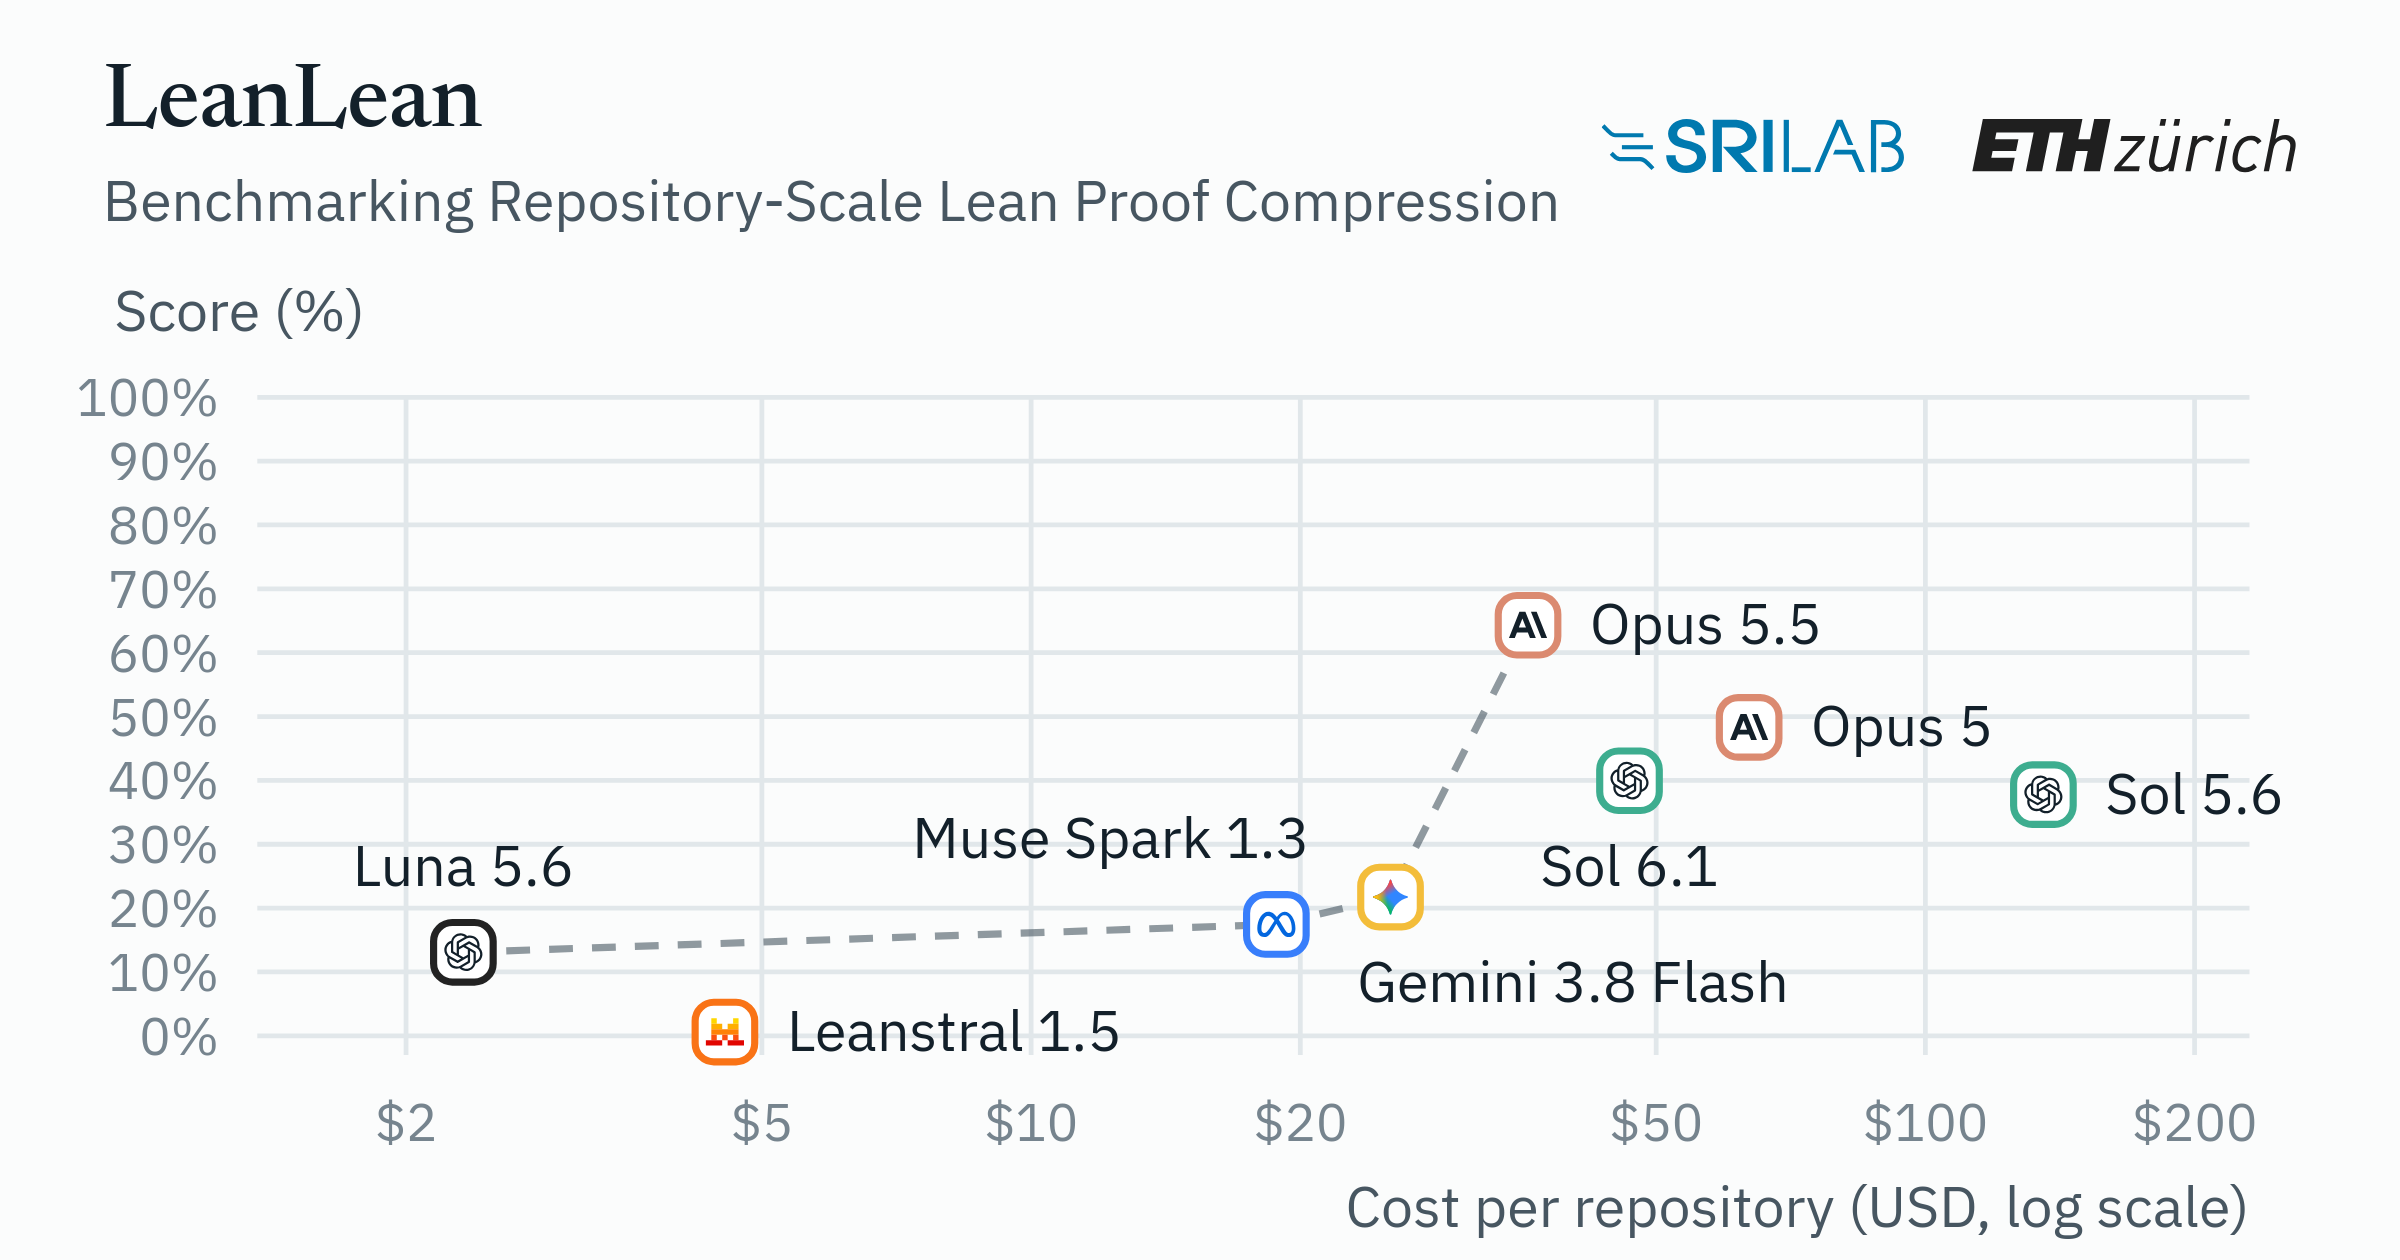
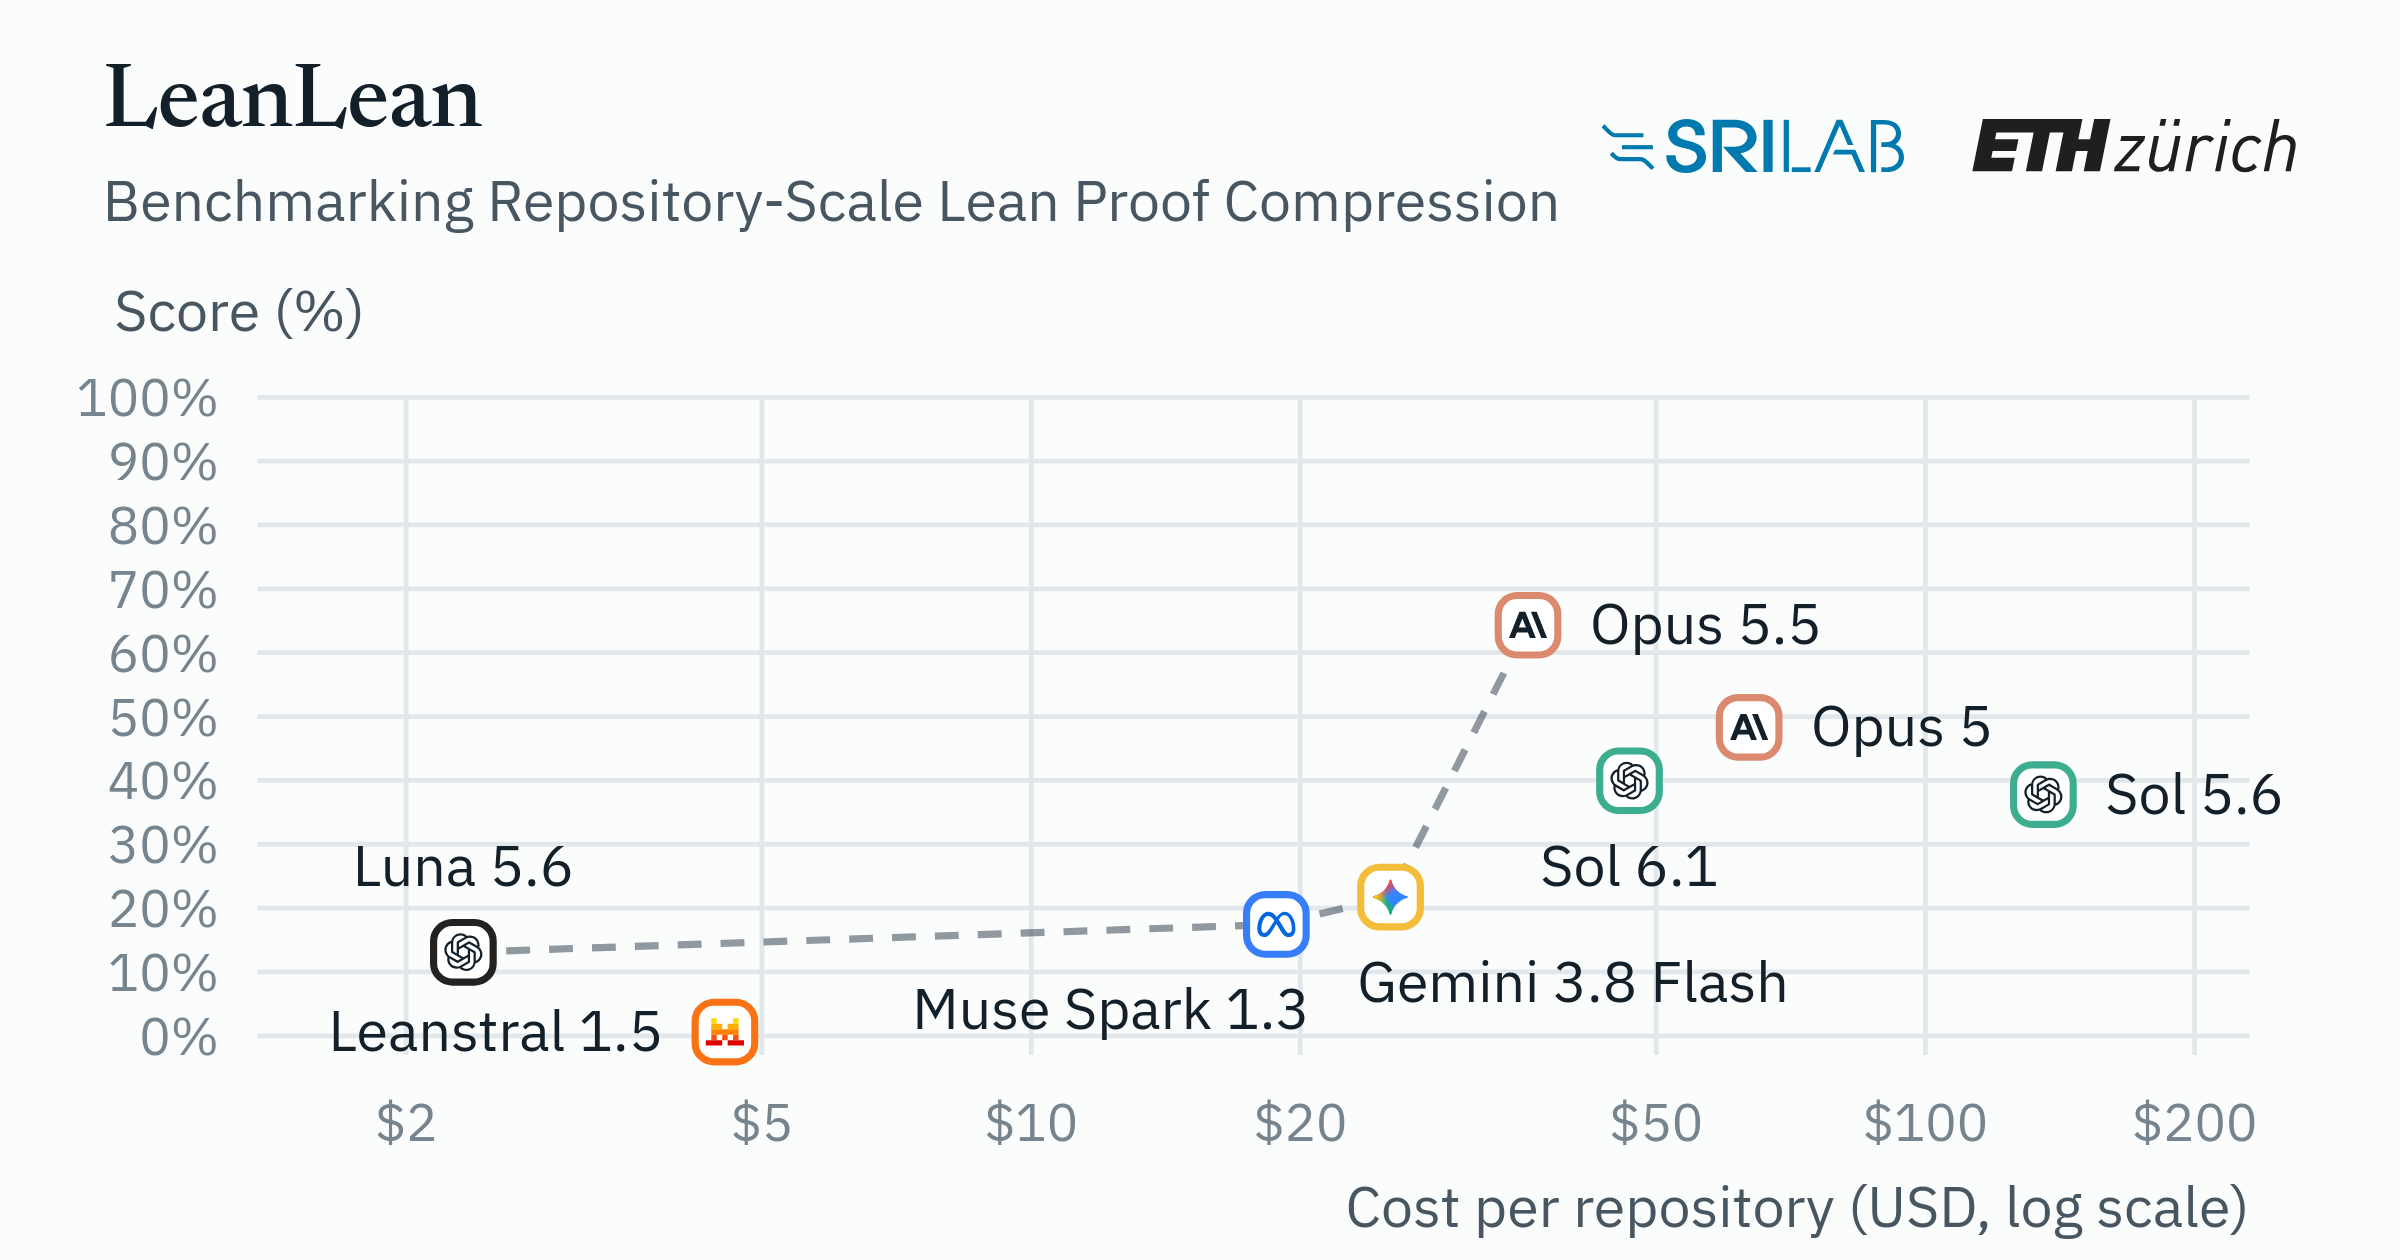
frontier: 16px names on desktop, labels prefer below over above; score note under the leaderboard tabs on a phone

Changed region(s): [[0.3125, 0.7738, 0.5312, 0.8357], [0.375, 0.65, 0.5625, 0.681], [0.125, 0.8048, 0.2812, 0.8357]]

diff --git a/site/assets/js/leaderboard.js b/site/assets/js/leaderboard.js
@@ -1,4 +1,4 @@
-import { h, s, logo, logoMarkup, modelColor, cssVar, pct, usd, hours, tokens, ramp, inkOn, esc, showTip, hideTip, AUTHORS, PAPER_URL, CODE_URL, DATASET_URL, CITATION, CONTACT_EMAIL, ORIGIN } from './util.js?v=e98656abd3';
+import { h, s, logo, logoMarkup, modelColor, cssVar, pct, usd, hours, tokens, ramp, inkOn, esc, showTip, hideTip, AUTHORS, PAPER_URL, CODE_URL, DATASET_URL, CITATION, CONTACT_EMAIL, ORIGIN } from './util.js?v=c650db202f';
 
 function sectionHead(eyebrow, title, text) {
   return h('div', { class: 'section-head' },
@@ -110,6 +110,8 @@ function frontierChart(models) {
     const zoom = +host.dataset.zoom || 1;
     const W = Math.round(drawn / zoom);
     const narrow = W < 560;
+    // A wide chart (a desktop) sets its labels a size up; see .chart.frontier .large in site.css.
+    const large = W >= 760, fs = large ? 16 : 12;
     const H = +host.dataset.height || (narrow ? 300 : W < 900 ? 360 : 400);
     const L = narrow ? 36 : 44, R = W - (narrow ? 10 : 18), T = 30, B = H - 42;
     const S = +host.dataset.mark || (narrow ? 16 : 18), icon = Math.round(S * 0.58);
@@ -121,7 +123,7 @@ function frontierChart(models) {
     const top = 100, floor = -3;
     const y = (v) => B - ((v - floor) / (top - floor)) * (B - T);
 
-    const svg = s('svg', { viewBox: `0 0 ${W} ${H}`, width: W, height: H, role: 'img',
+    const svg = s('svg', { class: large ? 'large' : null, viewBox: `0 0 ${W} ${H}`, width: W, height: H, role: 'img',
       'aria-label': `Score against cost per repository. ${pts.map((m) => `${m.label}: ${pct(m.score)} at ${usd(m.cost)}`).join('; ')}.` });
     const grid = s('g', { class: 'grid' });
     for (let t = 0; t <= top; t += 10) {
@@ -143,11 +145,11 @@ function frontierChart(models) {
       s('text', { class: 'axis-title', x: R, y: H - 6, 'text-anchor': 'end' }, 'Cost per repository (USD, log scale)'),
       s('polyline', { class: 'frontier-line', points: frontier.map((m) => `${x(m.cost)},${y(m.score)}`).join(' ') }));
 
-    // Direct labels: beside each logo where there is room (right, left, above,
-    // below, then above or below flush with either edge), placed from the top
+    // Direct labels: beside each logo where there is room (right, left, below,
+    // above, then below or above flush with either edge), placed from the top
     // score down so leaders get first pick, backtracking when a later label
     // would find no free spot.
-    measure.font = `400 12px ${cssVar('--font-ui')}`;
+    measure.font = `400 ${fs}px ${cssVar('--font-ui')}`;
     const boxes = pts.map((m) => ({ x: x(m.cost) - S / 2 - 2, y: y(m.score) - S / 2 - 2, w: S + 4, h: S + 4 }));
     const hits = (a, b) => a.x < b.x + b.w && b.x < a.x + a.w && a.y < b.y + b.h && b.y < a.y + a.h;
     // The frontier line, as small squares every few pixels, so labels keep clear of it too.
@@ -160,14 +162,14 @@ function frontierChart(models) {
     const order = [...pts].sort((a, b) => b.score - a.score);
     const options = order.map((m) => {
       const cx = x(m.cost), cy = y(m.score), r = S / 2 + 6, e = S / 2;
-      const w = measure.measureText(m.label).width, lh = 14;
-      const above = { y: cy - r - lh + 2, ty: cy - r - 1 }, below = { y: cy + r - 2, ty: cy + r + 9 };
+      const w = measure.measureText(m.label).width, lh = fs + 2, mid = cy + fs / 3;
+      const above = { y: cy - r - lh + 2, ty: cy - r - 1 }, below = { y: cy + r - 2, ty: cy + r + fs - 3 };
       return [
-        { x: cx + r, y: cy - lh / 2, anchor: 'start', tx: cx + r, ty: cy + 4 },
-        { x: cx - r - w, y: cy - lh / 2, anchor: 'end', tx: cx - r, ty: cy + 4 },
-        { ...above, x: cx - w / 2, anchor: 'middle', tx: cx },
+        { x: cx + r, y: cy - lh / 2, anchor: 'start', tx: cx + r, ty: mid },
+        { x: cx - r - w, y: cy - lh / 2, anchor: 'end', tx: cx - r, ty: mid },
         { ...below, x: cx - w / 2, anchor: 'middle', tx: cx },
-        ...[above, below].flatMap((v) => [
+        { ...above, x: cx - w / 2, anchor: 'middle', tx: cx },
+        ...[below, above].flatMap((v) => [
           { ...v, x: cx - e, anchor: 'start', tx: cx - e },
           { ...v, x: cx + e - w, anchor: 'end', tx: cx + e },
         ]),
@@ -266,12 +268,14 @@ export function renderLeaderboard(view, bench) {
   // opening on the frontier, with the leaderboard's summary and per-repository
   // columns as separate tabs (see site.css).
   const board = boardTable(bench);
+  // How a score is counted: under the frontier, and on a phone, where the panels
+  // are tabs, under the leaderboard's two tabs as well.
+  const scoreNote = 'Score is mean Lean token compression across repositories. A failed build or Comparator check scores zero.';
   const panels = {
     board: h('div', { class: 'result-panel board-panel', id: 'results-board', role: 'tabpanel' },
-      h('h2', {}, 'Leaderboard'), board),
+      h('div', { class: 'panel-head' }, h('h2', {}, 'Leaderboard'), h('p', { class: 'tab-note' }, scoreNote)), board),
     frontier: h('div', { class: 'result-panel frontier-panel', id: 'results-frontier', role: 'tabpanel' },
-      h('div', { class: 'panel-head' }, h('h2', {}, 'Frontier'),
-        h('p', {}, 'Score is mean Lean token compression across repositories. A failed build or Comparator check scores zero.')),
+      h('div', { class: 'panel-head' }, h('h2', {}, 'Frontier'), h('p', {}, scoreNote)),
       frontierChart(models)),
   };
   const body = h('div', { class: 'results-body', 'data-tab': 'frontier' }, panels.frontier, panels.board);

diff --git a/site/index.html b/site/index.html
@@ -26,10 +26,10 @@
 <link rel="preconnect" href="https://fonts.googleapis.com">
 <link rel="preconnect" href="https://fonts.gstatic.com" crossorigin>
 <link rel="stylesheet" href="https://fonts.googleapis.com/css2?family=Newsreader:opsz,wght@6..72,400;6..72,500;6..72,600&family=IBM+Plex+Sans:wght@400;500;600&family=IBM+Plex+Mono:wght@400;500&display=swap">
-<link rel="stylesheet" href="assets/css/site.css?v=e98656abd3">
-<link rel="modulepreload" href="assets/js/main.js?v=e98656abd3">
-<link rel="modulepreload" href="assets/js/util.js?v=e98656abd3">
-<link rel="modulepreload" href="assets/js/leaderboard.js?v=e98656abd3">
+<link rel="stylesheet" href="assets/css/site.css?v=c650db202f">
+<link rel="modulepreload" href="assets/js/main.js?v=c650db202f">
+<link rel="modulepreload" href="assets/js/util.js?v=c650db202f">
+<link rel="modulepreload" href="assets/js/leaderboard.js?v=c650db202f">
 <link rel="preload" href="data/leaderboard.json" as="fetch" crossorigin="anonymous">
 <link rel="icon" href="assets/favicon.svg" type="image/svg+xml">
 <link rel="icon" href="assets/favicon-32.png" type="image/png" sizes="32x32">
@@ -38,7 +38,7 @@
 <body>
 <main id="view" tabindex="-1"><div class="loading">Loading benchmark…</div></main>
 <div class="tooltip" id="tooltip" role="tooltip" hidden></div>
-<script type="module" src="assets/js/main.js?v=e98656abd3"></script>
+<script type="module" src="assets/js/main.js?v=c650db202f"></script>
 <script>window.goatcounter = { path: (p) => p + location.hash };</script>
 <script data-goatcounter="https://leanleanbench.goatcounter.com/count"
         async src="//gc.zgo.at/count.js"></script>

diff --git a/site/assets/js/main.js b/site/assets/js/main.js
@@ -9,8 +9,8 @@
 //   #/model/<model>             a model's run configuration, over whatever is open
 // <model> is an agent's short key, or `prep` for the repository before and after preprocessing.
 // Every address is a link that can be shared: the viewer keeps it in step with what is open.
-import { h, load, registerLogos } from './util.js?v=e98656abd3';
-import { renderLeaderboard, renderMethod, renderCitation } from './leaderboard.js?v=e98656abd3';
+import { h, load, registerLogos } from './util.js?v=c650db202f';
+import { renderLeaderboard, renderMethod, renderCitation } from './leaderboard.js?v=c650db202f';
 // The repository viewer (diff, graph, charts) and the full benchmark data load
 // only when a repository is opened; the leaderboard needs one small file.
 
@@ -27,8 +27,8 @@ let panel = null;     // full-width host for the repository viewer
 let cleanup = null;   // tears down the current repository viewer
 let shownRepo = null;
 let openedFrom = null; // the address before a model's configuration was opened
-const loadRepoPage = () => import('./repo.js?v=e98656abd3');
-const loadConfig = () => import('./config.js?v=e98656abd3');
+const loadRepoPage = () => import('./repo.js?v=c650db202f');
+const loadConfig = () => import('./config.js?v=c650db202f');
 // Colours the scripts compute (heatmap ramp, graph, origin bars) are read from
 // site.css's custom properties. Not every browser holds module scripts until the
 // stylesheet has applied, and on a cold load an empty property turns the whole

diff --git a/site/assets/css/site.css b/site/assets/css/site.css
@@ -714,7 +714,7 @@ ul.tree .state.added { border-color: var(--g-added); background: color-mix(in sr
 }
 .results-tabs button:hover { color: var(--ink); }
 .results-tabs button[aria-selected="true"] { color: var(--ink); border-bottom-color: var(--ink); }
-@media (min-width: 760px) { .results-tabs { display: none; } }
+@media (min-width: 760px) { .results-tabs, .tab-note { display: none; } }
 @media (max-width: 759.98px) {
   .result-panel h2,
   .results-body[data-tab="frontier"] .board-panel,
@@ -724,6 +724,9 @@ ul.tree .state.added { border-color: var(--g-added); background: color-mix(in sr
 .chart.frontier .pt rect { fill: var(--surface); stroke-width: 1.5; }
 .chart.frontier .pt { color: var(--ink); }
 .chart.frontier .label, .chart.frontier .axis-title { font-weight: 400; }
+.chart.frontier .large text { font-size: 13px; }
+.chart.frontier .large .axis-title { font-size: 14px; }
+.chart.frontier .large .label { font-size: 16px; }
 .chart.frontier .pt:hover rect { stroke-width: 2.5; }
 .chart.frontier .frontier-line { fill: none; stroke: var(--ink-2); stroke-width: 1.5; stroke-dasharray: 5 4; stroke-linejoin: round; opacity: 0.6; }
 

diff --git a/site/assets/js/repo.js b/site/assets/js/repo.js
@@ -1,7 +1,7 @@
-import { h, load, loadChunk, logo, modelColor, pct, usd, hours, tokens, int, signedInt, signedPct, seg, esc, showTip, hideTip, cssVar, ramp, ORIGIN } from './util.js?v=e98656abd3';
-import { GraphView, STATUS, shapeOf, radius } from './graph.js?v=e98656abd3';
-import { codeBlock, diffBlock, splitBlock, hunksBlock, wholeFileBlock } from './code.js?v=e98656abd3';
-import { TraceView } from './trace.js?v=e98656abd3';
+import { h, load, loadChunk, logo, modelColor, pct, usd, hours, tokens, int, signedInt, signedPct, seg, esc, showTip, hideTip, cssVar, ramp, ORIGIN } from './util.js?v=c650db202f';
+import { GraphView, STATUS, shapeOf, radius } from './graph.js?v=c650db202f';
+import { codeBlock, diffBlock, splitBlock, hunksBlock, wholeFileBlock } from './code.js?v=c650db202f';
+import { TraceView } from './trace.js?v=c650db202f';
 
 const CATEGORY_TEXT = {
   unchanged: 'Unchanged', modified: 'Modified', comments: 'Comments or layout only', deleted: 'Deleted', dead: 'Dead code, removed', added: 'Added',

diff --git a/site/assets/js/trace.js b/site/assets/js/trace.js
@@ -3,8 +3,8 @@
 // into the same steps: say, think, user, compact and tool. Tool calls keep their
 // native names; their category picks how the input is drawn, and the paper's action
 // class (Build, Verify, Measure, Read, Search, Edit, Git, Lake, Sleep, Other) says what they did.
-import { h, s, load, loadChunk, loadPack, int, tokens, usd, signedInt, esc, showTip, hideTip } from './util.js?v=e98656abd3';
-import { codeBlock, patchBlock } from './code.js?v=e98656abd3';
+import { h, s, load, loadChunk, loadPack, int, tokens, usd, signedInt, esc, showTip, hideTip } from './util.js?v=c650db202f';
+import { codeBlock, patchBlock } from './code.js?v=c650db202f';
 
 // The paper's action classes (scripts/analysis/plot_action_classes.py), as in its action figure.
 const ACTIONS = ['Build', 'Verify', 'Measure', 'Read', 'Search', 'Edit', 'Git', 'Lake', 'Sleep', 'Other'];

diff --git a/site/assets/js/charts.js b/site/assets/js/charts.js
@@ -1,6 +1,6 @@
 // Hand-drawn SVG chart in the paper's visual language: thin marks, recessive
 // axes, direct labels, a hover layer on every mark.
-import { s, esc, showTip, hideTip, cssVar, ORIGIN, tokens, signedInt, inkOn, hexToRgb } from './util.js?v=e98656abd3';
+import { s, esc, showTip, hideTip, cssVar, ORIGIN, tokens, signedInt, inkOn, hexToRgb } from './util.js?v=c650db202f';
 
 // Drawing width: narrower on phones so text stays legible when scaled down.
 const cw = (container) => ((container.clientWidth || 720) < 560 ? 480 : 720);

diff --git a/site/assets/js/code.js b/site/assets/js/code.js
@@ -1,5 +1,5 @@
 // Lean 4 code rendering: a small line highlighter, snippet diffs, unified hunks.
-import { h, esc } from './util.js?v=e98656abd3';
+import { h, esc } from './util.js?v=c650db202f';
 
 const KEYWORDS = new Set(('theorem lemma def abbrev instance structure class inductive where by have show from fun let in match with ' +
   'if then else do return namespace section end open variable variables universe import private protected noncomputable ' +

diff --git a/site/assets/js/graph.js b/site/assets/js/graph.js
@@ -12,7 +12,7 @@
 // A node's area is its size in Lean tokens; its shape is its kind: theorems
 // are circles, definitions squares, anything else (notation, macros, axioms)
 // triangles.
-import { cssVar } from './util.js?v=e98656abd3';
+import { cssVar } from './util.js?v=c650db202f';
 
 export const STATUS = ['unchanged', 'rewritten', 'structural', 'deleted', 'dead', 'comments'];
 

diff --git a/site/assets/js/config.js b/site/assets/js/config.js
@@ -2,7 +2,7 @@
 // tools, limits, the task prompt and the harness's own system prompt. Every
 // value comes from the frozen run manifests (pipeline/export_benchmark.py,
 // run_configs); the system prompts load only when one is opened.
-import { h, load, logo, usd } from './util.js?v=e98656abd3';
+import { h, load, logo, usd } from './util.js?v=c650db202f';
 
 let dialog = null;
 
